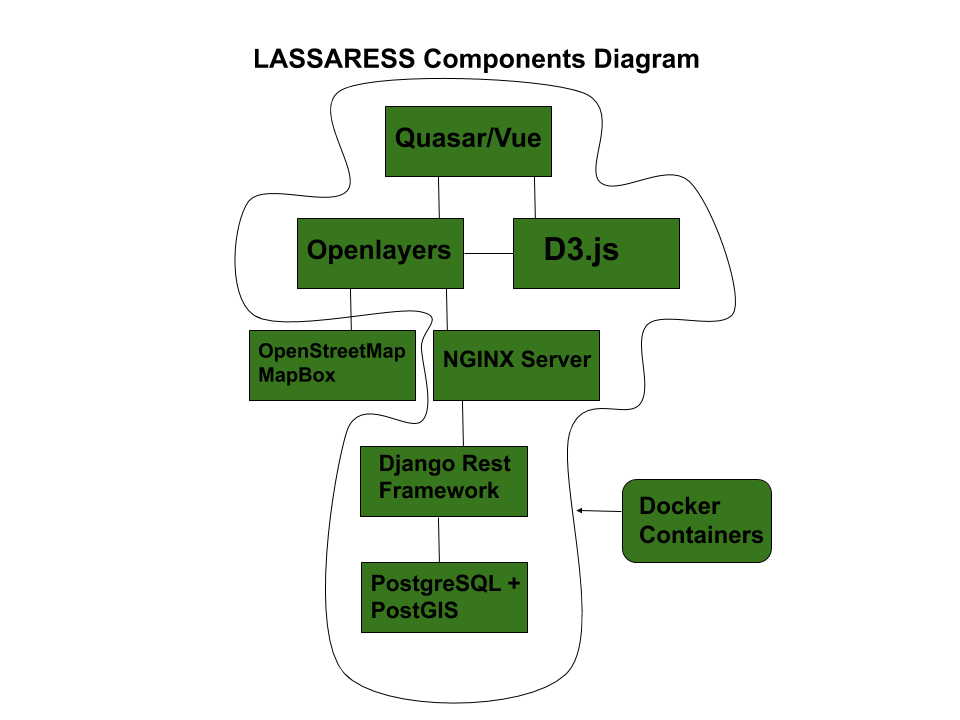
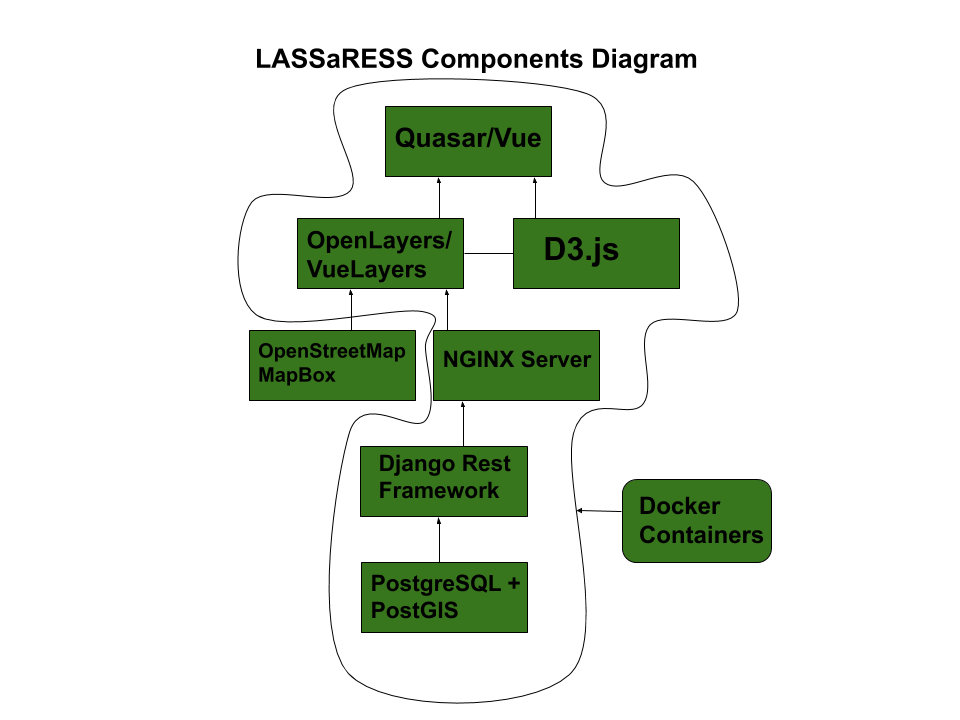
Added reference to VueLayers

diff --git a/README.md b/README.md
@@ -2,10 +2,10 @@
 This project involves development and configuration of cloud-based data collection, analysis and visualization pipeline as well as mobile web application. See more details about the project [here!](http://nrig.renci.org/project/lassaress/)
 
 ## Analysis & Visualization Pipeline
-Analysis and visualization pipeline is implemented via PostgreSQL/PostGIS and Openlayers/D3.js.
+Analysis and visualization pipeline is implemented via [PostgreSQL](https://www.postgresql.org/)/[PostGIS](https://postgis.net/) and [OpenLayers](https://openlayers.org/)/[VueLayers](https://vuelayers.github.io/#/)/[D3.js](https://d3js.org/).
 
 ## Web Application
-The web application backend uses the Django Rest Framework, accessible through a NGINX server, to serve data extracted from a PostgreSQL/PostGIS database. The web application frontend accesses and displays the data using Openlayers and D3.js, which are wrapped in a Vue/Quasar user interface. Openlayers also accesses OpenStreetMap and MapBox tile map services. The entire web application is packaged into containers using Docker, for easy transport to cloud services such as AWS. 
+The web application backend uses the [Django Rest Framework](https://www.django-rest-framework.org/), accessible through a [NGINX](https://www.nginx.com/) server, to serve data extracted from a PostgreSQL/PostGIS database. The web application frontend accesses and displays the data using OpenLayers/VueLayers and D3.js, which are wrapped in a Vue/Quasar user interface. OpenLayers/VueLayers also accesses OpenStreetMap and MapBox tile map services. The entire web application is packaged into containers using Docker, for easy transport to cloud services such as AWS. 
 
 ![Block-Diagram](../master/images/RENCIPropDiagram.png)
 
